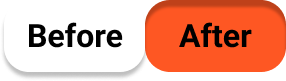
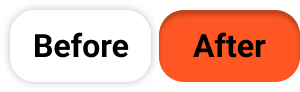
눈성형수정3

diff --git a/css/eyelid.css b/css/eyelid.css
@@ -132,7 +132,8 @@ a{ text-decoration:none; color:#000;}
 			}
 		#section2 .section2_1 a{
 			position: relative;
-			width: 144px;
+			width: 155px;
+			height: 92px;
 			overflow: hidden;
 		}
 			#section2 .section2_1 a img{
